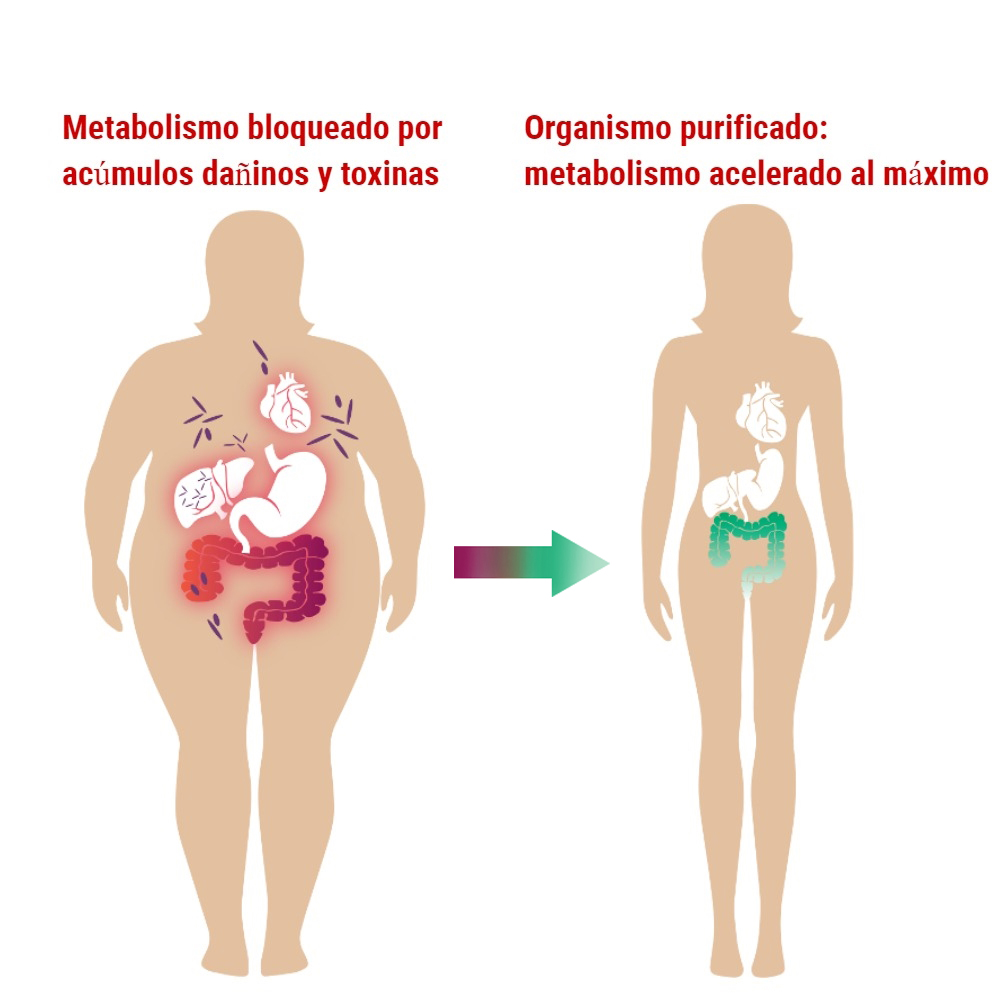
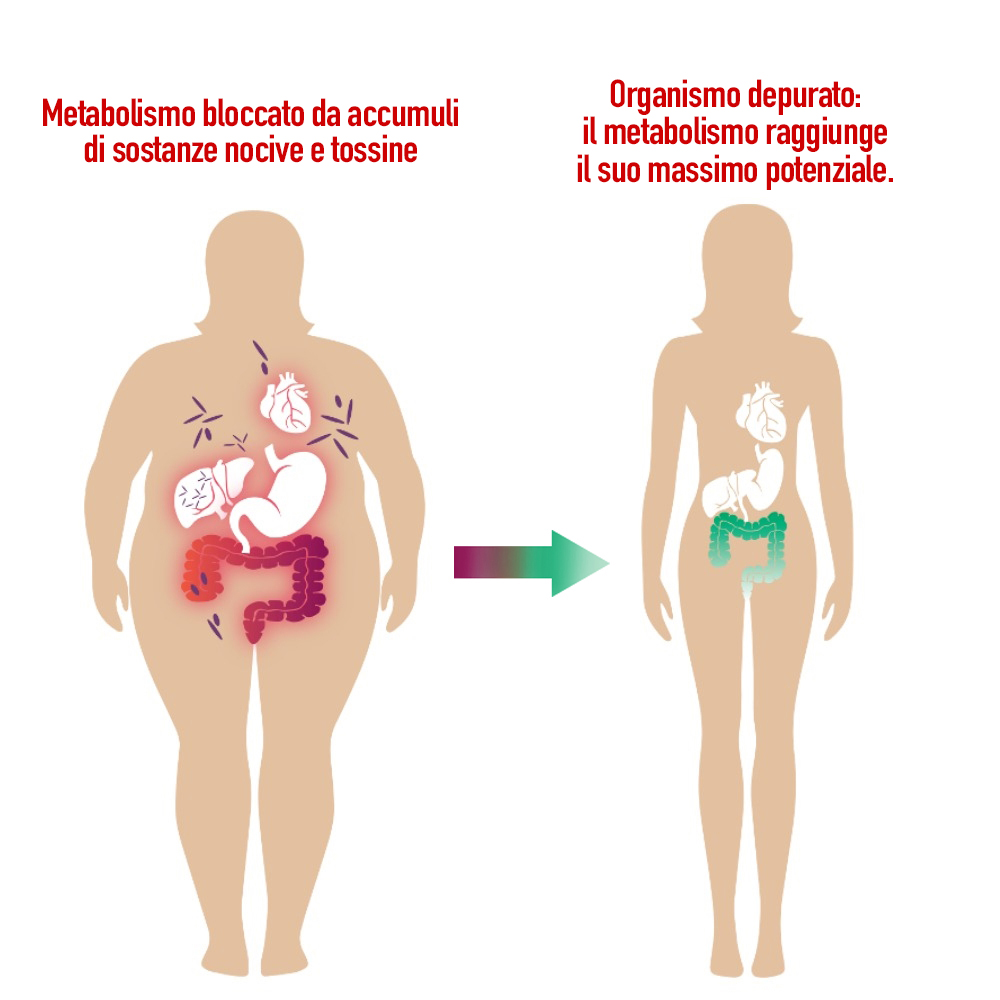
Updated all text

Changed region(s): [[0.527, 0.062, 0.992, 0.186], [0.031, 0.093, 0.465, 0.186]]

diff --git a/index.html b/index.html
@@ -146,7 +146,7 @@
                                   Senza purificare l'organismo, non perderai mai neanche 1 kg. Anche se ti tormentassi con la fame e ti affaticassi con esercizi in palestra, la bilancia mostrerebbe comunque lo stesso risultato, poiché nel tuo intestino si accumulano ben 15 kg di depositi decomposti, e nel sistema circolatorio si trovano tossine dannose. Queste rallentano il metabolismo e ostacolano la combustione dei grassi. Potresti persino non sospettare della loro esistenza. Liberartene è impossibile. Le inali con la respirazione, le assorbi con l'acqua e il cibo, persino quando consumi verdure e frutta. La mia formula purifica efficacemente l'organismo da depositi nocivi e tossine. Trasforma l'organismo in un regime completamente diverso: non solo espelle le tossine, ma brucia anche il grasso corporeo più velocemente e ottiene un aumento di energia dal cibo fino a 15 volte maggiore. Grazie a questo, è possibile eliminare completamente gli attacchi di fame, ridurre l'appetito e interrompere l'effetto yo-yo. Grazie a questo, già dopo pochi giorni di utilizzo del mio metodo, si può passare alla fase di combustione automatica dei grassi.
                                 </p>
                                <h3>Fase II</h3>
-                            <p>Combustione automatica dei grassi Nella formula ho incluso sostanze naturali che letteralmente distruggono le cellule adipose. Non è necessario andare in palestra, correre o fare sport. Se vuoi aumentare la massa muscolare, ovviamente puoi farlo. Ma se vuoi semplicemente liberarti del grasso addominale, del grasso su fianchi e glutei, della cellulite, è sufficiente utilizzare la mia formula dimagrante a due fasi. Già dopo pochi giorni, inizierai automaticamente a bruciare grasso 24 ore al giorno, persino durante il sonno. Inoltre, bloccherai per sempre l'effetto yo-yo. Puoi essere sicuro che eliminerai il grasso indesiderato una volta per tutte. Con questo metodo, fermerai l'accumulo di tessuto adiposo a livello molecolare e accelererai radicalmente il processo di bruciare i grassi.</p>
+                            <p>Combustione automatica dei grassi. Nella formula ho incluso sostanze naturali che letteralmente distruggono le cellule adipose. Non è necessario andare in palestra, correre o fare sport. Se vuoi aumentare la massa muscolare, ovviamente puoi farlo. Ma se vuoi semplicemente liberarti del grasso addominale, del grasso su fianchi e glutei, della cellulite, è sufficiente utilizzare la mia formula dimagrante a due fasi. Già dopo pochi giorni, inizierai automaticamente a bruciare grasso 24 ore al giorno, persino durante il sonno. Inoltre, bloccherai per sempre l'effetto yo-yo. Puoi essere sicuro che eliminerai il grasso indesiderato una volta per tutte. Con questo metodo, fermerai l'accumulo di tessuto adiposo a livello molecolare e accelererai radicalmente il processo di bruciare i grassi.</p>
                             <h3>100% SICURO E FACILISSIMO DA USARE</h3>
                             <p>Le sostanze naturali compiono miracoli: tutto ciò di cui la scienza ha bisogno è sviluppare la loro composizione ideale! Proprio questo motto mi ha ispirato nella creazione della formula dimagrante a due fasi. Il preparato contiene solo sostanze naturali, sicure e super efficaci. Le ho concepite sotto forma di gocce facili da assumere, in modo che ognuno possa seguire il trattamento senza problemi e senza dover uscire di casa.</p>
                             
@@ -616,7 +616,7 @@
                             </div>
                         </div>
                         <!--<div class="component_img"><img src="selfy/"></div>-->
-                        <a href="#form" class="component_reposy"><b>Hace un momento</b>
+                        <a href="#form" class="component_reposy"><b>Poco fa</b>
                             <nav>Mi piace</nav>
                             <nav>Rispondere</nav>
                             <nav>Piu</nav>
@@ -640,7 +640,7 @@
                             </div>
                         </div>
                         <!--<div class="component_img"><img src="selfy/"></div>-->
-                        <a href="#form" class="component_reposy"><b>Hace un momento</b>
+                        <a href="#form" class="component_reposy"><b>Poco fa</b>
                             <nav>Mi piace</nav>
                             <nav>Rispondere</nav>
                             <nav>Piu</nav>
@@ -665,7 +665,7 @@
                             <div class="component_licked" style="display: flex;"> <span class="icons"><span class="fb_licked l"></span><span class="fb_licked u"></span><span class="fb_licked s"></span></span>  <span class="popular">128</span>
                             </div>
                         </div>
-                        <a href="#form" class="component_reposy"><b>Hace un momento</b>
+                        <a href="#form" class="component_reposy"><b>Poco fa</b>
                             <nav>Mi piace</nav>
                             <nav>Rispondere</nav>
                             <nav>Piu</nav>
@@ -688,7 +688,7 @@
                             <div class="component_licked" style="display:none;"> <span class="icons"></span> <span class="popular"></span>
                             </div>
                         </div>
-                        <a href="#form" class="component_reposy"><b>Hace un momento</b>
+                        <a href="#form" class="component_reposy"><b>Poco fa</b>
                             <nav>Mi piace</nav>
                             <nav>Rispondere</nav>
                             <nav>Piu</nav>
